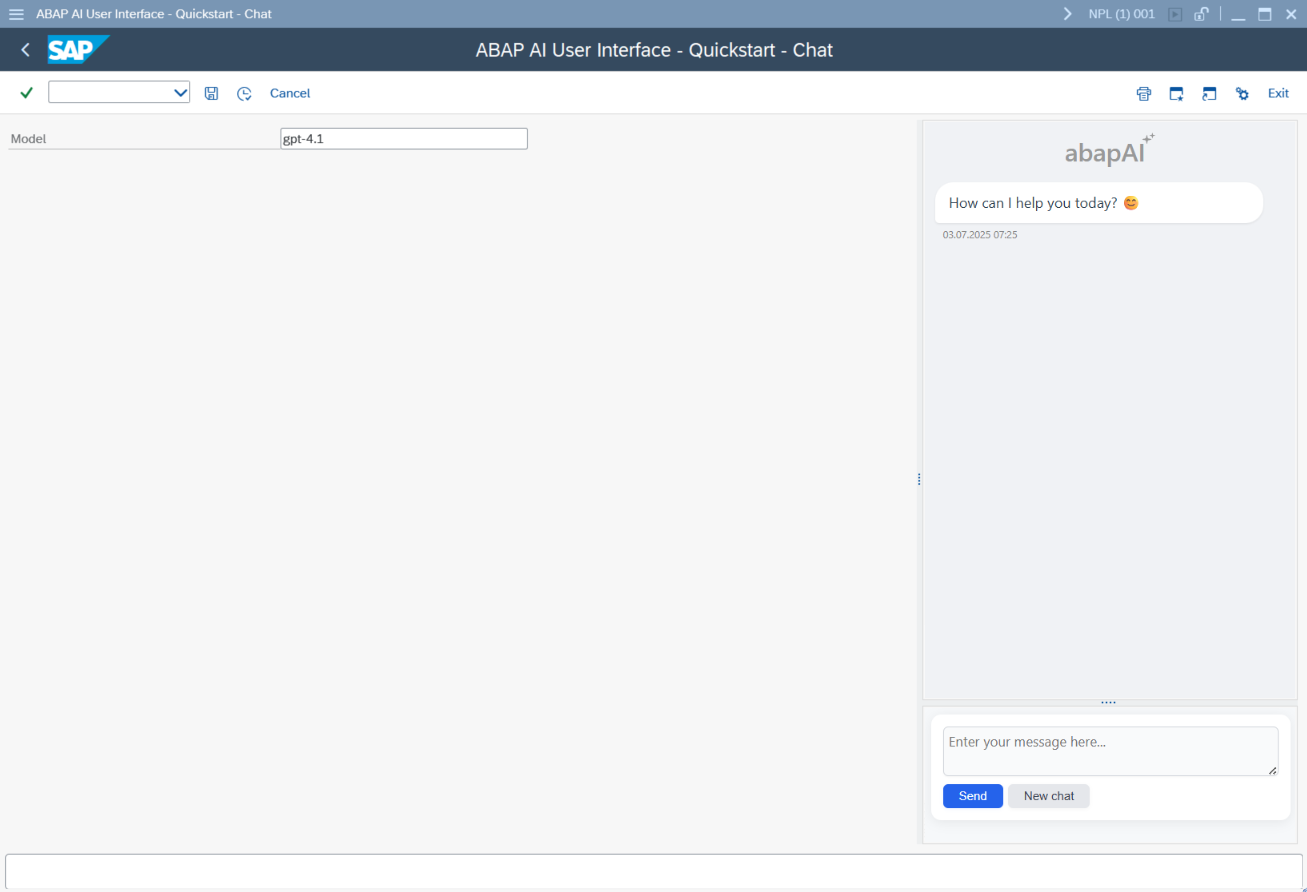
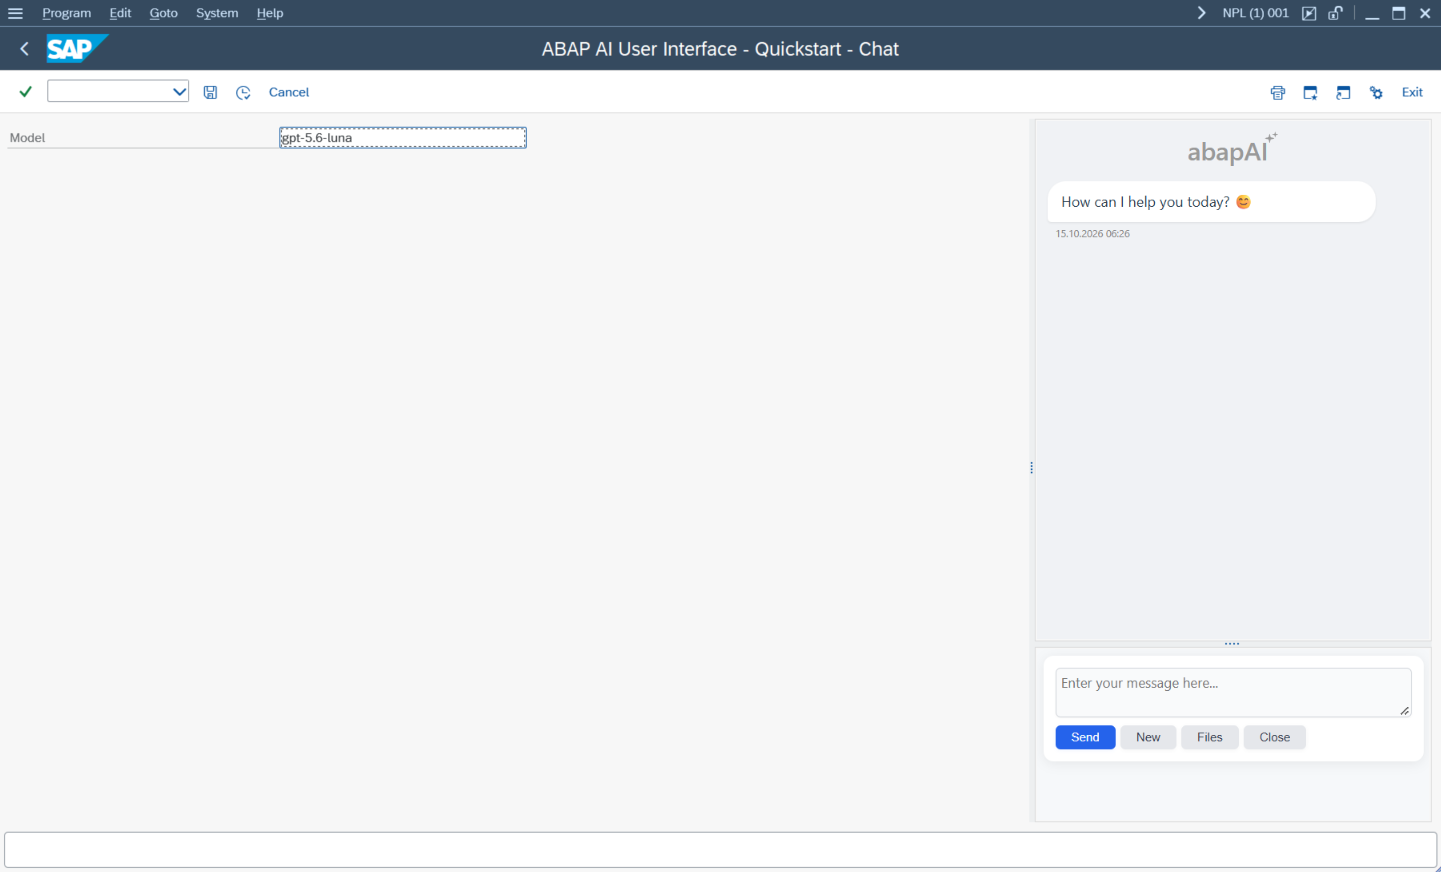
Documentation update chat version 3

diff --git a/README.md b/README.md
@@ -7,7 +7,7 @@ This repository contains the user interface components for the `ABAP AI tools`, 
 
 **New Chat User Interface (version 3) released**
 
-A new version of the chat user interface with support for files is available. In this new version, users can attach images and files to be sent to the AI assistant along with their prompts. Examples and documentation will be provided soon.  
+A new version of the chat user interface with support for files is available. In this new version, users can attach images and files to be sent to the AI assistant along with their prompts.
 
 ![Chat V3](docs/images/abap_ai_ui_chat_v3.png)
 
@@ -100,13 +100,13 @@ Make sure your API credentials and endpoints are configured before running the e
 ```abap
 REPORT yaai_ui_r_quickstart_chat.
 
-PARAMETERS: p_model TYPE c LENGTH 30 LOWER CASE OBLIGATORY DEFAULT 'gpt-4.1'.
+PARAMETERS: p_model TYPE c LENGTH 30 LOWER CASE OBLIGATORY DEFAULT 'gpt-5.6-luna'.
 
 CLASS lcl_app DEFINITION.
 
   PUBLIC SECTION.
 
-    DATA mo_aai_ui_chat TYPE REF TO ycl_aai_ui_chat_v2 READ-ONLY.
+    DATA mo_aai_ui_chat TYPE REF TO ycl_aai_ui_chat_v3 READ-ONLY.
 
     METHODS run.
 
@@ -121,10 +121,17 @@ CLASS lcl_app IMPLEMENTATION.
       RETURN.
     ENDIF.
 
-    "This example assumes that the API base URL and the API Key are properly configured
-    DATA(lo_aai_openai) = NEW ycl_aai_openai( i_model = p_model ).
+    " Run the class YCL_AAI_BASIC_SETUP to execute the basic setup of the APIs, models and tools
+    DATA(lo_aai_conn) = NEW ycl_aai_conn( yif_aai_const=>c_openai ).
 
-    "Create a Chat instance passing the AI API you want to use 
+    " The hardcoded API key in this example is intended for testing and development only.
+    " Hardcoding API keys directly into your ABAP code is highly discouraged.
+    lo_aai_conn->set_api_key( i_api_key = 'REPLACE_THIS_TEXT_WITH_YOUR_API_KEY' ).
+
+    DATA(lo_aai_openai) = NEW ycl_aai_openai( i_model = p_model
+                                              i_o_connection = lo_aai_conn ).
+
+    "Create a Chat instance passing the AI API you want to use
     me->mo_aai_ui_chat = NEW #( io_api = lo_aai_openai
                                 i_greeting = 'How can I help you today? 😊' ).
 

diff --git a/docs/quickstart.md b/docs/quickstart.md
@@ -10,13 +10,13 @@ Make sure your API Key and the API base URL are configured before running the ex
 ```abap
 REPORT yaai_ui_r_quickstart_chat.
 
-PARAMETERS: p_model TYPE c LENGTH 30 LOWER CASE OBLIGATORY DEFAULT 'gpt-4.1'.
+PARAMETERS: p_model TYPE c LENGTH 30 LOWER CASE OBLIGATORY DEFAULT 'gpt-5.6-luna'.
 
 CLASS lcl_app DEFINITION.
 
   PUBLIC SECTION.
 
-    DATA mo_aai_ui_chat TYPE REF TO ycl_aai_ui_chat_v2 READ-ONLY.
+    DATA mo_aai_ui_chat TYPE REF TO ycl_aai_ui_chat_v3 READ-ONLY.
 
     METHODS run.
 
@@ -31,10 +31,17 @@ CLASS lcl_app IMPLEMENTATION.
       RETURN.
     ENDIF.
 
-    "This example assumes that the API base URL and the API Key are properly configured
-    DATA(lo_aai_openai) = NEW ycl_aai_openai( i_model = p_model ).
+    " Run the class YCL_AAI_BASIC_SETUP to execute the basic setup of the APIs, models and tools
+    DATA(lo_aai_conn) = NEW ycl_aai_conn( yif_aai_const=>c_openai ).
 
-    "Create a Chat instance passing the AI API you want to use 
+    " The hardcoded API key in this example is intended for testing and development only.
+    " Hardcoding API keys directly into your ABAP code is highly discouraged.
+    lo_aai_conn->set_api_key( i_api_key = 'REPLACE_THIS_TEXT_WITH_YOUR_API_KEY' ).
+
+    DATA(lo_aai_openai) = NEW ycl_aai_openai( i_model = p_model
+                                              i_o_connection = lo_aai_conn ).
+
+    "Create a Chat instance passing the AI API you want to use
     me->mo_aai_ui_chat = NEW #( io_api = lo_aai_openai
                                 i_greeting = 'How can I help you today? 😊' ).
 
@@ -68,3 +75,7 @@ The following screenshots show the output you can expect after running the examp
 <br>
 
 <img src="images/abap_ai_ui_chat_quickstart_2.png" alt="ABAP AI UI Chat" width="800px">
+
+<br>
+
+<img src="images/abap_ai_ui_chat_quickstart_3.png" alt="ABAP AI UI Chat" width="800px">

diff --git a/docs/README.md b/docs/README.md
@@ -1,5 +1,5 @@
 # yaai_ui - ABAP AI User Interface
-This repository contains the user interface components for the `ABAP AI Tools`, designed to enhance interaction with the core functionalities.
+This repository contains the user interface components for the `ABAP AI tools`, designed to enhance interaction with the core functionalities.
 
 **See It in Action** 😊
 
@@ -7,7 +7,7 @@ This repository contains the user interface components for the `ABAP AI Tools`, 
 
 **New Chat User Interface (version 3) released**
 
-A new version of the chat user interface with support for files is available. In this new version, users can attach images and files to be sent to the AI assistant along with their prompts. Examples and documentation will be provided soon.  
+A new version of the chat user interface with support for files is available. In this new version, users can attach images and files to be sent to the AI assistant along with their prompts.
 
 ![Chat V3](images/abap_ai_ui_chat_v3.png)
 
@@ -18,7 +18,7 @@ A new version of the chat user interface with support for files is available. In
 
 ## User Interface Components
 
-Explore these components to enhance your workflow with ABAP AI Tools.
+Explore these components to enhance your workflow with ABAP AI tools.
 
   - [Chat Interface](chat.md): Engage in conversational AI interactions directly within your SAP system.
   - [Code Assistant](code_assist.md): Access AI-powered code suggestions and assistance for ABAP development.

diff --git a/docs/chat.md b/docs/chat.md
@@ -24,10 +24,11 @@ The Chat component requires the Browser control Edge (based on Chromium).
 
 ## Instantiation
 
-There are two main classes for chat UI:
+There are three classes for chat UI:
 
-- **`ycl_aai_ui_chat_v2`**: Recommended. Uses only HTML Viewer controls for a modern, responsive experience.
-- **`ycl_aai_ui_chat`**: Version using TextEdit and Toolbar controls.
+- **`ycl_aai_ui_chat_v3`**: Modern, responsive interface using HTML Viewer controls. Adds support for images and files.
+- **`ycl_aai_ui_chat_v2`**: Modern, responsive interface using HTML Viewer controls. Text-only version.
+- **`ycl_aai_ui_chat`**: Simple text-only user interface using TextEdit and Toolbar controls.
 
 ### Supported Modes
 
@@ -40,7 +41,7 @@ There are two main classes for chat UI:
 ```abap
 DATA(o_api) = NEW ycl_aai_openai( ).
 
-DATA(o_chat) = NEW ycl_aai_ui_chat_v2(
+DATA(o_chat) = NEW ycl_aai_ui_chat_v3(
   i_greeting     = 'Hello! How can I help you today?'
   io_api         = o_api
   i_display_mode = ycl_aai_ui_chat=>mc_display_mode_dock "the other options are: mc_display_mode_dialog, mc_display_mode_custom
@@ -99,7 +100,7 @@ To embed the chat in a custom SAP GUI container:
       "Handle error
     ENDIF.
 
-    DATA(o_chat) = NEW ycl_aai_ui_chat_v2(
+    DATA(o_chat) = NEW ycl_aai_ui_chat_v3(
     io_api              = o_api
     io_custom_container = o_custom_container
     ).
